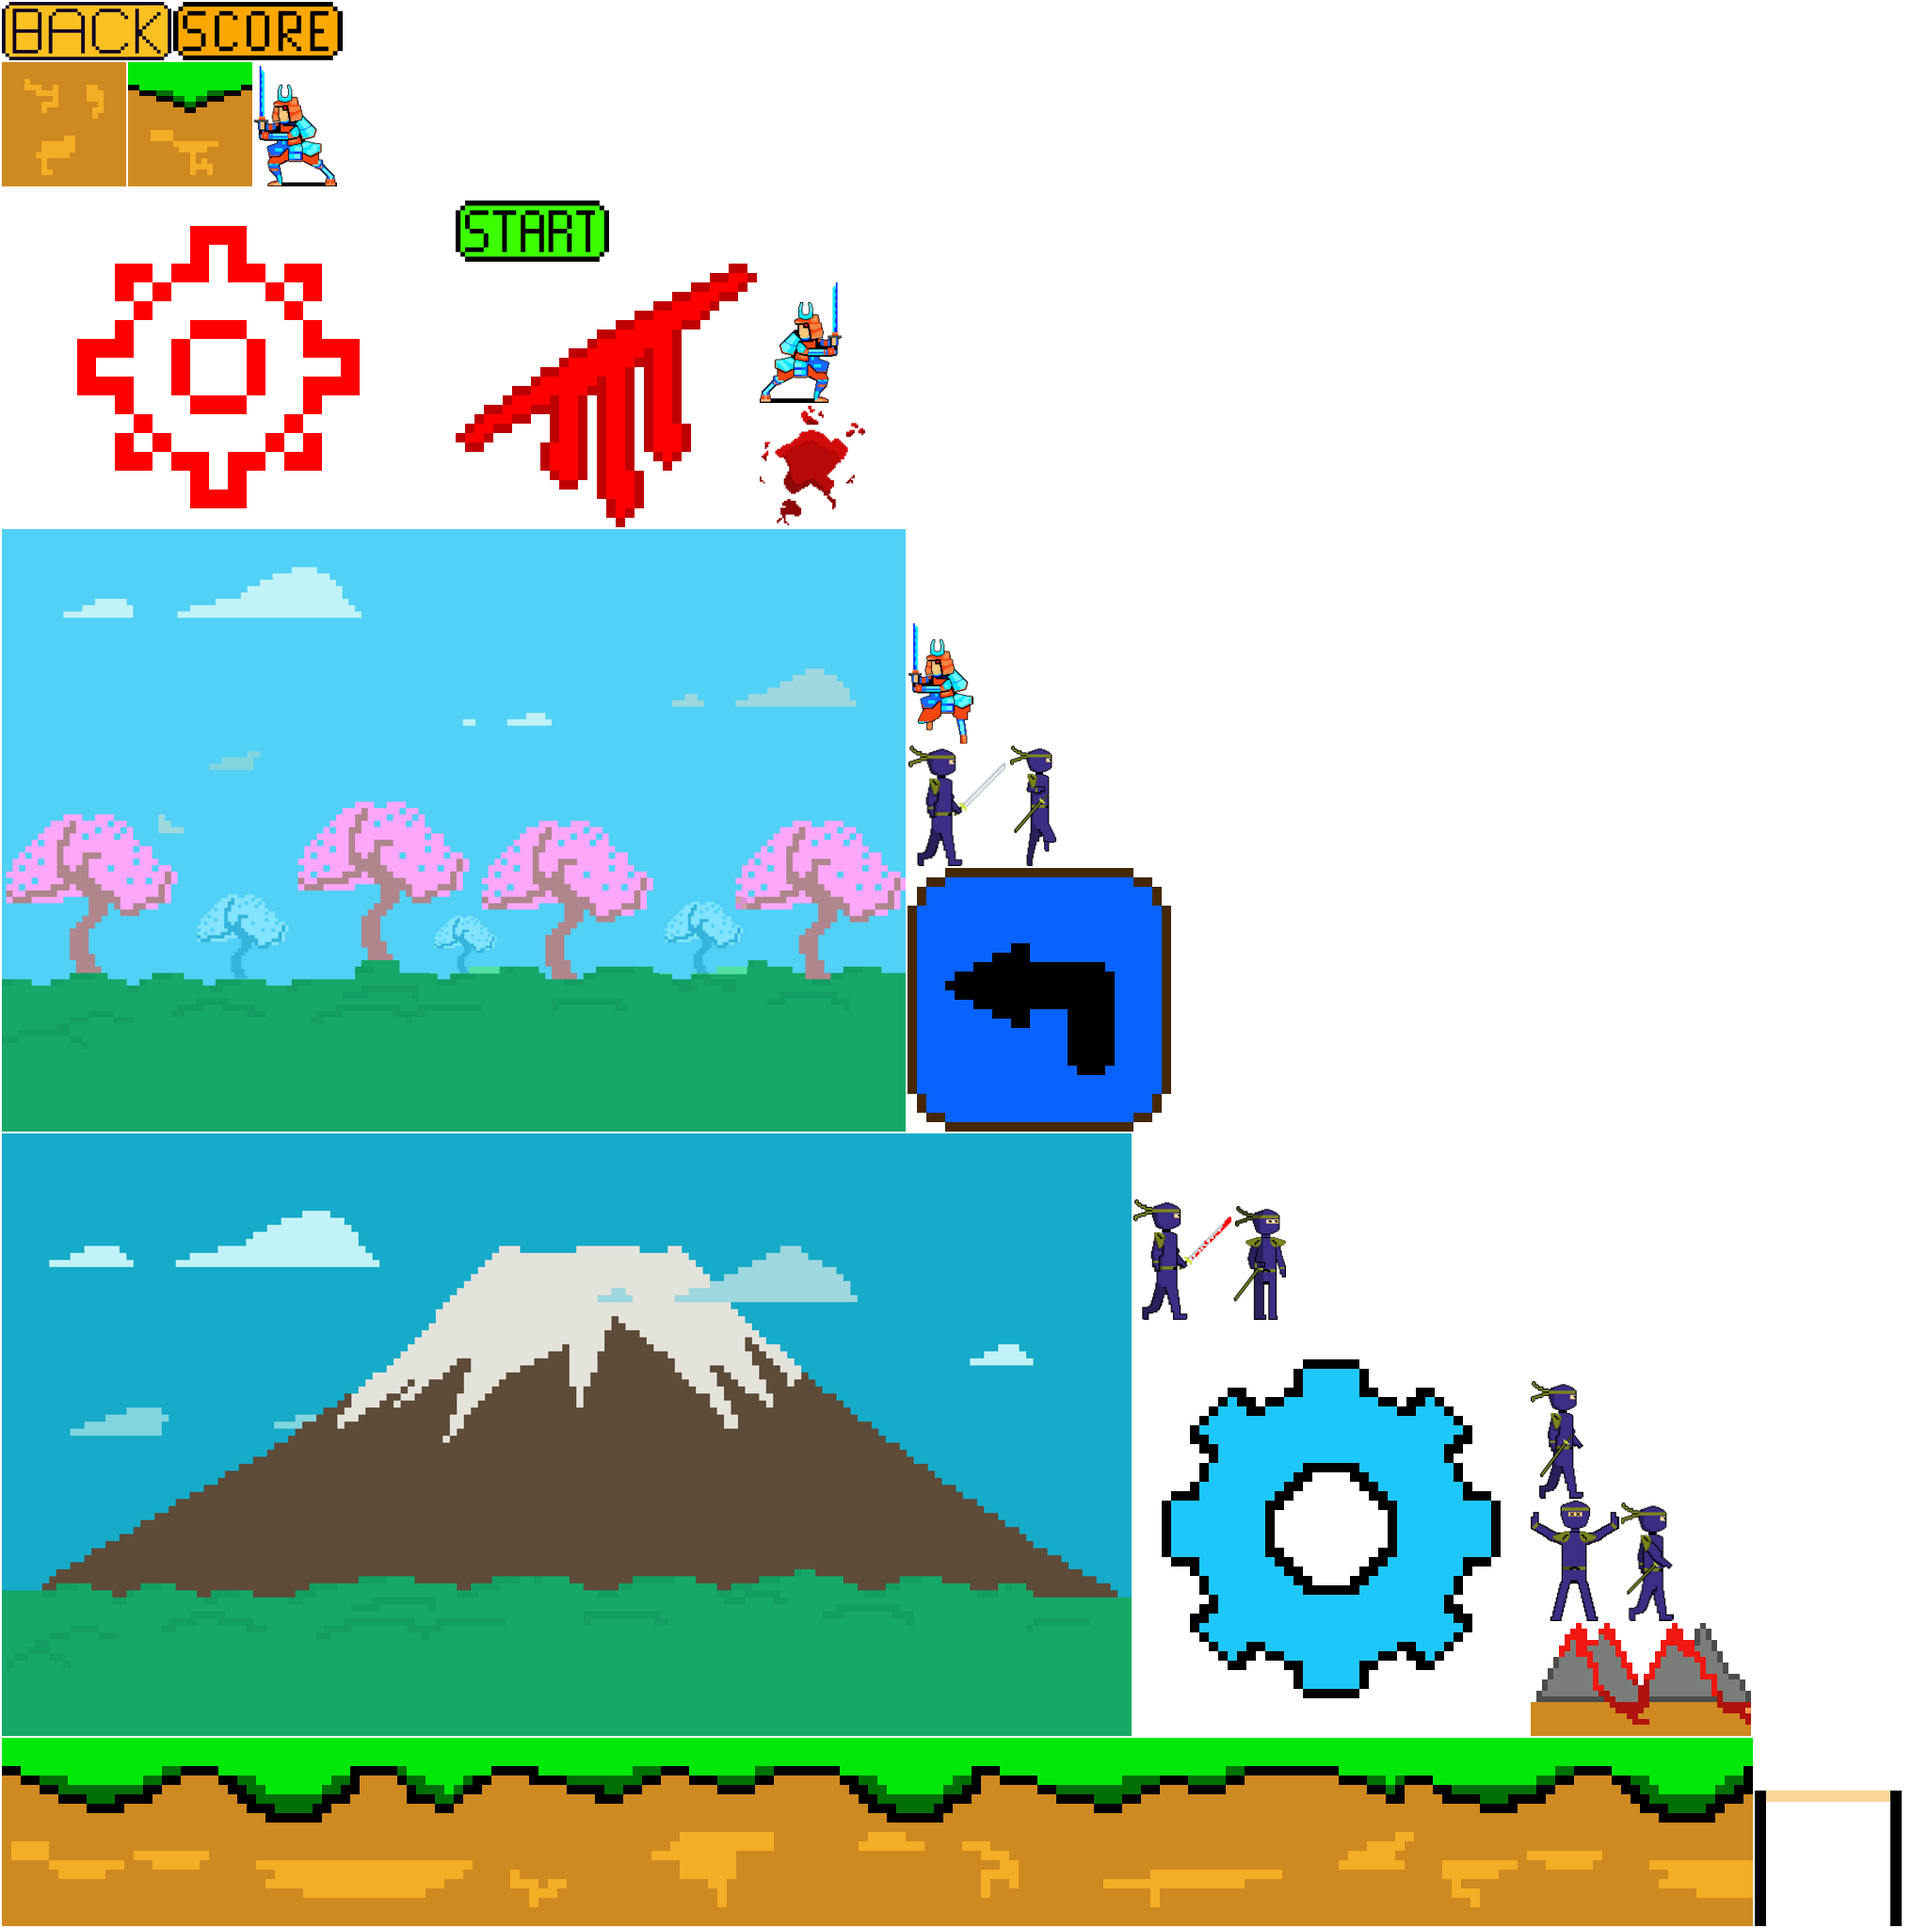
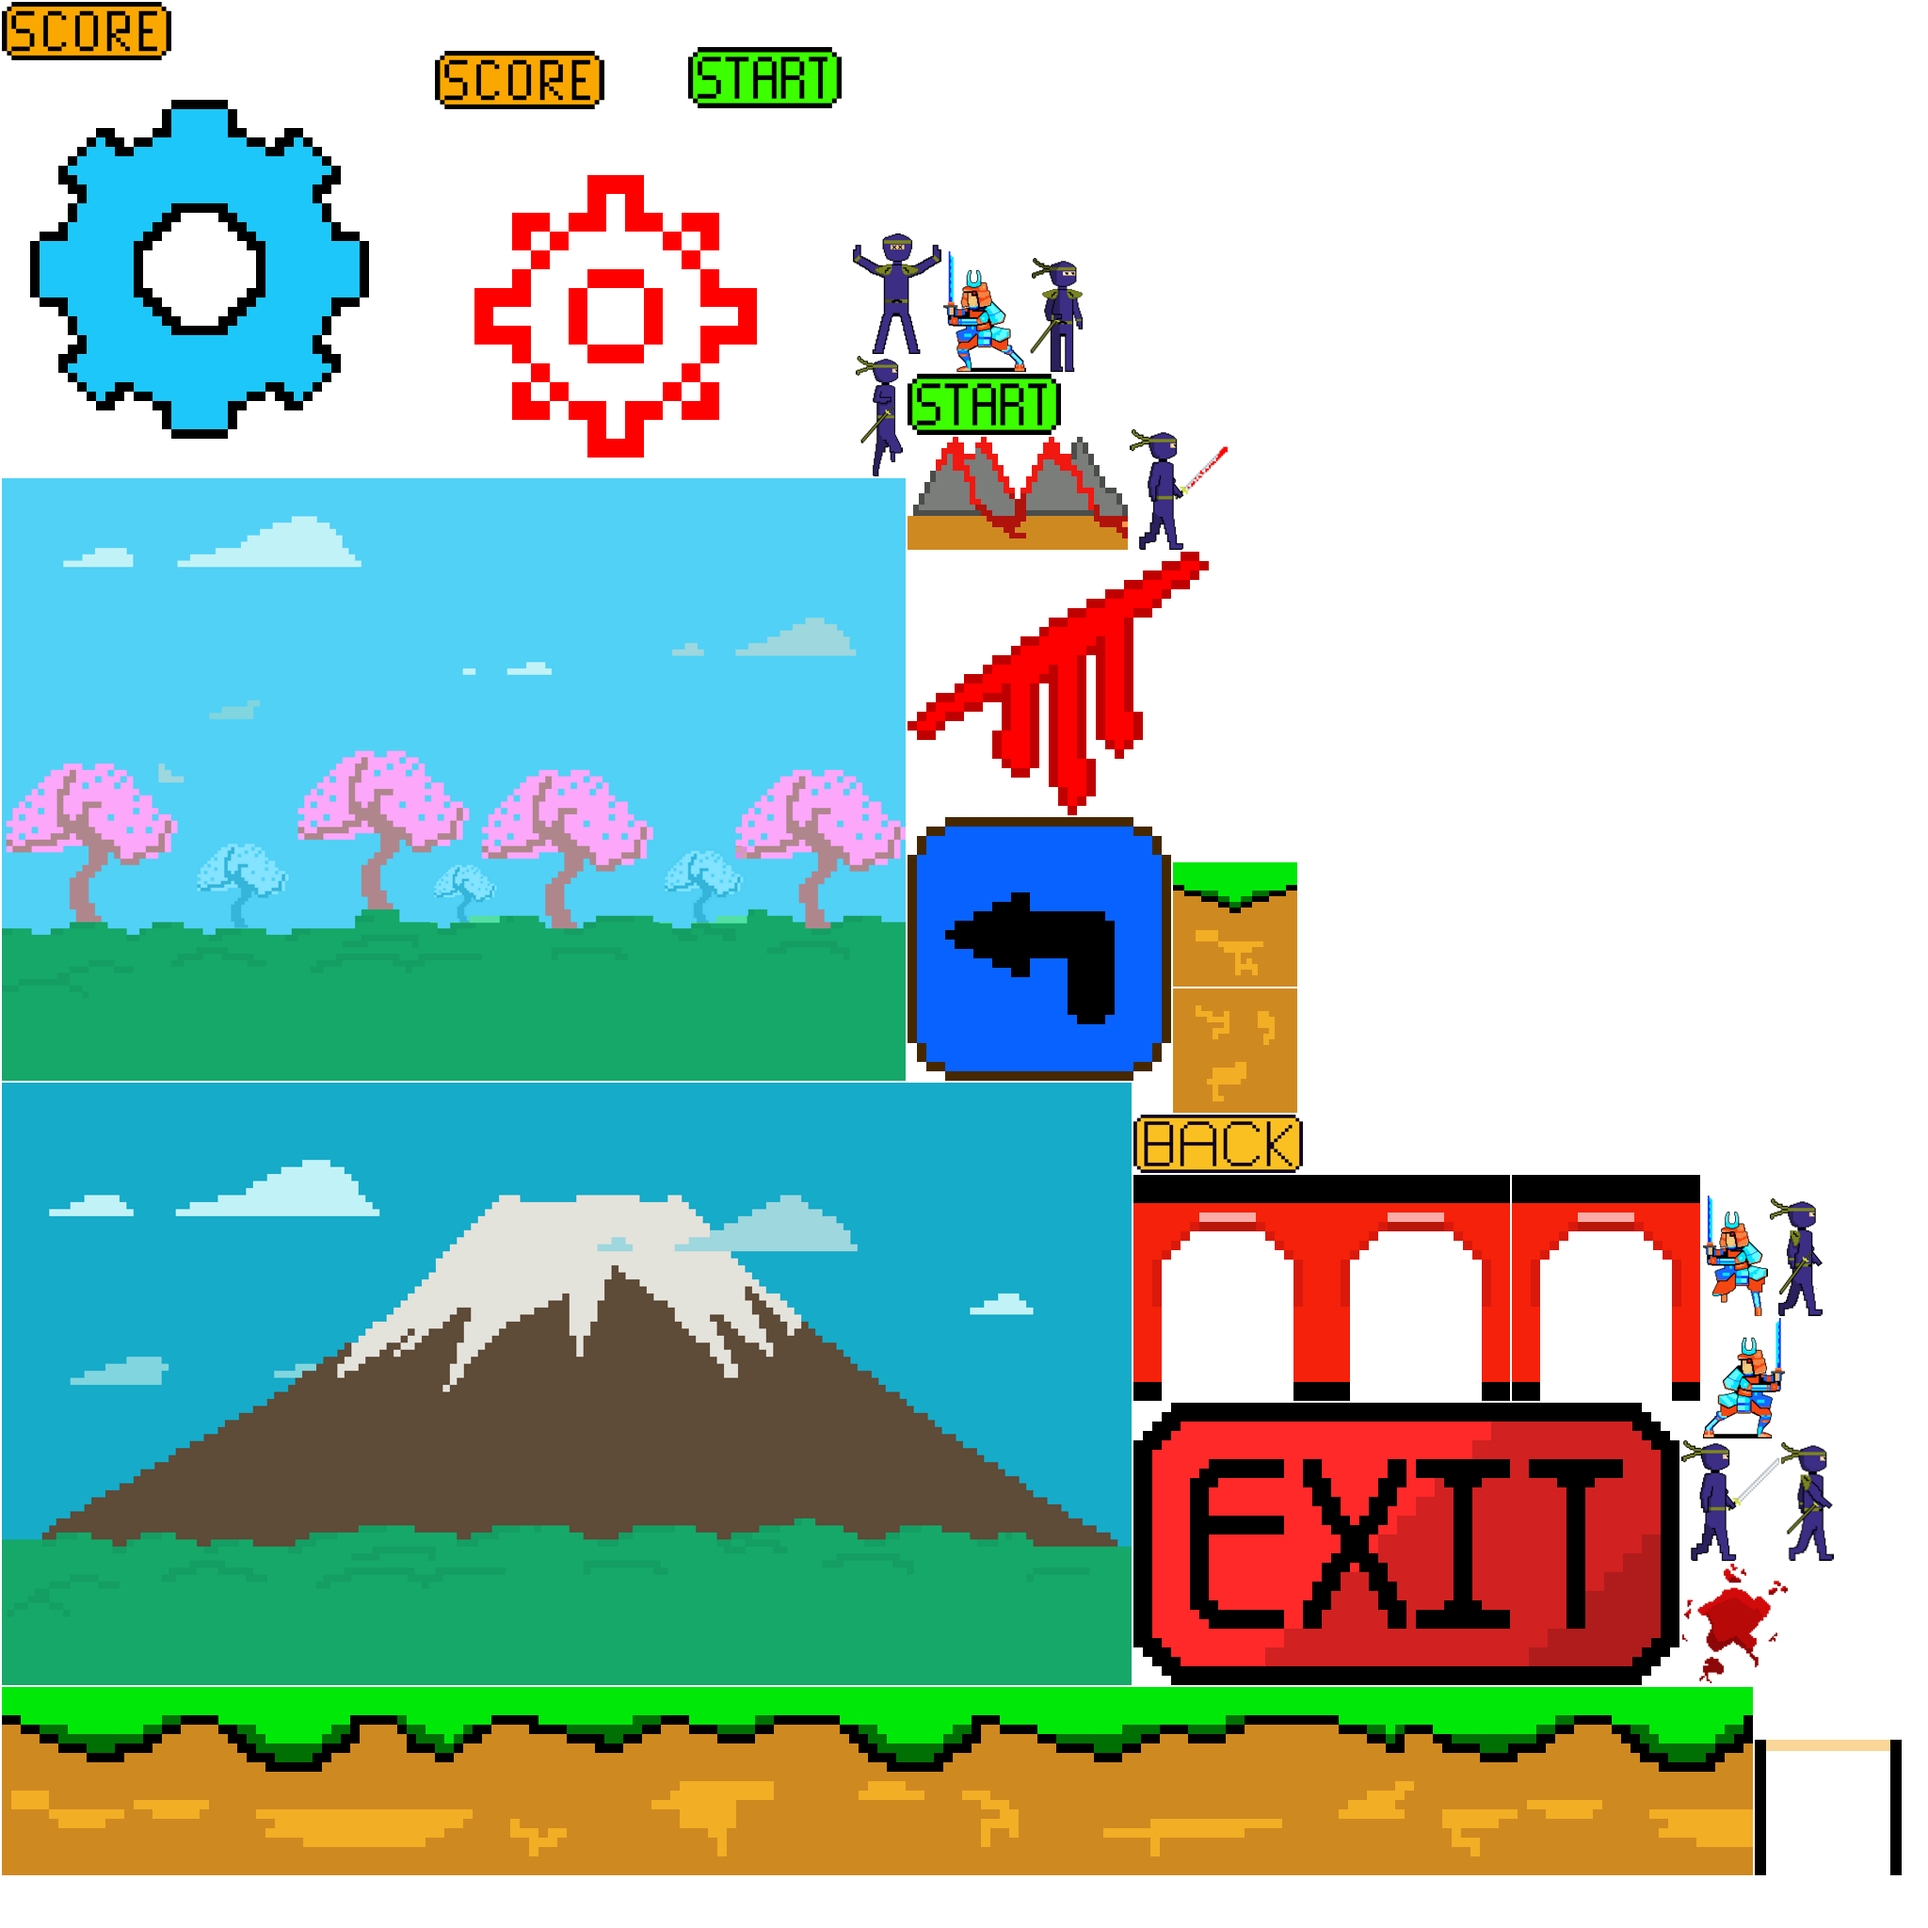
new constants, new assets and atlas

diff --git a/core/src/com/xaviplacidpol/blindbloodblade/utils/Constants.java b/core/src/com/xaviplacidpol/blindbloodblade/utils/Constants.java
@@ -34,7 +34,7 @@ public class Constants {
     public static final float PLAYER_EYE_HEIGHT = 16.0f;
     public static final float PLAYER_STANCE_WIDTH = 21.0f;
     public static final float PLAYER_HEAD_HEIGHT = 23.0f;
-    public static final float PLAYER_MOVE_SPEED = 200;
+    public static final float PLAYER_MOVE_SPEED = 400;              ///modified
     public static final float PLAYER_BLADE_RADIUS = 100f;
 
     public static final float JUMP_SPEED = 400;
@@ -89,7 +89,7 @@ public class Constants {
     public static final String BLOOD_SPLASH_SPRITE = "bloodsplash";
     public static final Vector2 BLOOD_SPLASH_CENTER = new Vector2(8, 8);
     public static final float BLOOD_SPLASH_DURATION = 0.50f;
-    public static final float BLOOD_SPLASH_OVERLAY_SCALE = 0.8f;
+    public static final float BLOOD_SPLASH_OVERLAY_SCALE = 1.0f;        ///modified
 
     //SCORE SCREEN
     public static final String SCORE = "SCORE";
